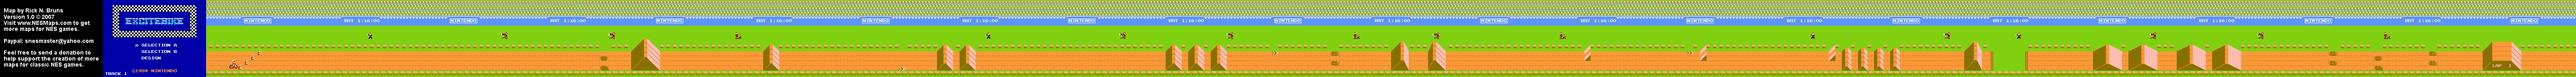
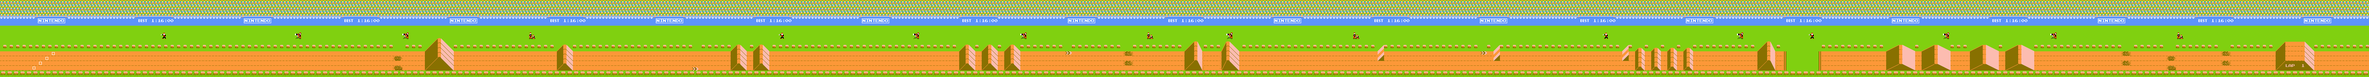
MyMapTiling

diff --git a/Excitebike/js/GamePlay.js b/Excitebike/js/GamePlay.js
@@ -5,7 +5,7 @@ class GamePlay extends Phaser.Scene{
 
     preload(){
         var ruta = 'assets/img/';
-        this.load.image('backGround', ruta + 'Track_1_Base.png');
+        this.load.image('backGround', ruta + 'excitebike_map_1.png');
         ruta += 'pilot/';
         this.load.image('motorbike',ruta + 'motorbike.png');
         this.load.spritesheet('pilotLoop', ruta + 'pilot_loop.png', {frameWidth: 98/4, frameHeight: 24});
@@ -19,9 +19,10 @@ class GamePlay extends Phaser.Scene{
 
     }
     create(){
-        this.backGround = this.add.tileSprite(0, 0, 256, 240, 'backGround').setOrigin(0).setScale(1);
+        this.backGround = this.add.image(0, 0, 'backGround').setOrigin(0).setScale(1);
 
-        this.pilot = this.physics.add.sprite(128,20,'motorbike').setOrigin(0.5);
+        this.pilot = this.physics.add.sprite(config.width/2, 125, 'pilotLoop').setOrigin(0.5);
+       
         this.anims.create({
             key: 'running',
             frames: this.anims.generateFrameNumbers('pilotRunning', { start: 0, end: 1 }),
@@ -48,42 +49,40 @@ class GamePlay extends Phaser.Scene{
         });
         this.pilot.anims.play('moving', true);
         
-        this.pilot.acceleration = 0;
-        this.pilot.maxAcceleration = 1;
+        this.pilot.acceleration = 0.01;
+        this.pilot.maxAcceleration = 2;
         this.pilot.speed = 0;
-        this.pilot.maxSpeed = 2;
+        this.pilot.maxSpeed = 1.5;
         this.pilot.sideSpeed = 25;
         
         
         this.inputs = new InputManager(this);
-    }
-    update(){
-        if (this.inputs.A_Key.isDown) this.pilot.acceleration = this.pilot.maxAcceleration;
-        else this.pilot.acceleration = -this.pilot.maxAcceleration;
         
-        this.pilot.body.setAccelerationX(this.pilot.acceleration);
-        if(this.pilot.body.velocity.x < 0){
-            this.pilot.setAccelerationX(0);
-            this.pilot.setVelocityX(0);
+    }
+
+
+    update(){
+        
+        if (this.inputs.A_Key.isDown && this.pilot.speed < this.pilot.maxSpeed ){    
+            this.pilot.speed += this.pilot.acceleration;
         } 
-        else if(this.pilot.body.velocity.x > this.pilot.maxSpeed) {
-            this.pilot.setAccelerationX(0);
-            this.pilot.setVelocityX(this.pilot.maxSpeed);
+        else if(this.pilot.speed > 0) {
+            this.pilot.speed -= this.pilot.acceleration;
         }
+    
 
         if(this.inputs.Up_Key.isDown){
-            this.pilot.body.setVelocityY(-this.pilot.sideSpeed);
-            this.pilot.setTexture('pilotTurnLeft');
+           
+
         } 
         else if(this.inputs.Down_Key.isDown){
-            this.pilot.body.setVelocityY(this.pilot.sideSpeed);
-            this.pilot.setTexture('pilotTurnRight');
+          
         }
         else{
-            this.pilot.body.setVelocityY(0);
+            
         }
 
-        this.backGround.tilePositionX += this.pilot.body.velocity.x; // scroll  
+        this.backGround.x -= this.pilot.speed; // scroll  
          
          
     }
